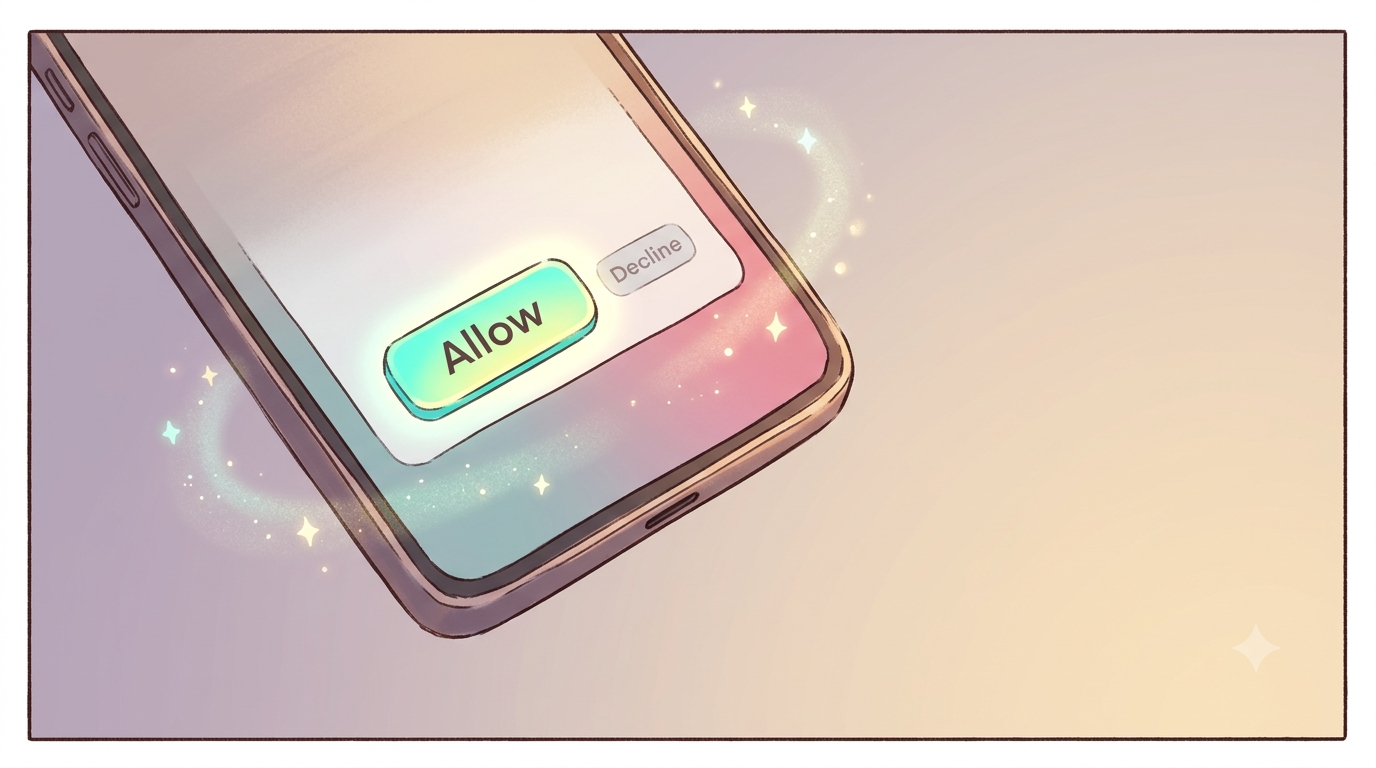
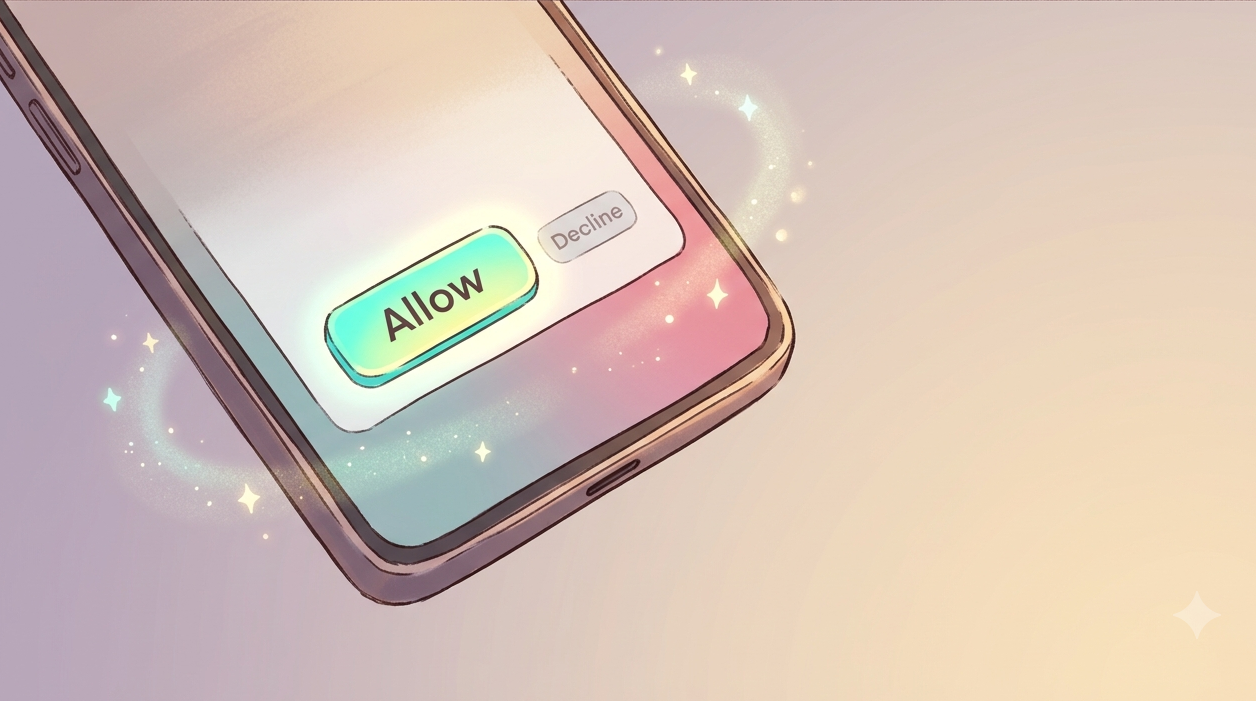
task 4 1.2

diff --git a/avatars.js b/avatars.js
@@ -264,15 +264,33 @@
      serverseitig in game_state[game16].variant gecacht. Für Landing/
      profil.html: wenn nicht vorhanden → null (keine Variant-Avatare
      freigeschaltet, aber auch keine Regression, weil vor Task 4 gar
-     keine Stage-≥5-Katze existiert). */
-  function getKatzeVariant() {
+     keine Stage-≥5-Katze existiert).
+
+     WICHTIG: lernwelt_v3 ist base64+Prüfsummen-Format (siehe
+     saveStorage in creatures.js). Deshalb dasselbe Read-Pattern wie
+     loadShopRaw benutzen, nicht plain JSON.parse. */
+  function loadGameStateRaw() {
     try {
       const raw = localStorage.getItem(GAME_STATE_KEY);
-      if (!raw) return null;
-      const data = JSON.parse(raw);
-      const v = data && data.game16 && data.game16.variant;
-      return (v === 'rainbow' || v === 'light' || v === 'dark') ? v : null;
-    } catch { return null; }
+      if (!raw) return {};
+      let parsed;
+      try {
+        parsed = JSON.parse(atob(raw));
+      } catch {
+        parsed = JSON.parse(raw);
+        return parsed || {};
+      }
+      if (parsed && typeof parsed === 'object' && 'h' in parsed && 'd' in parsed) {
+        if (parsed.h !== hashString(JSON.stringify(parsed.d))) return {};
+        return parsed.d;
+      }
+      return parsed || {};
+    } catch { return {}; }
+  }
+  function getKatzeVariant() {
+    const data = loadGameStateRaw();
+    const v = data && data.game16 && data.game16.variant;
+    return (v === 'rainbow' || v === 'light' || v === 'dark') ? v : null;
   }
 
   /* ─── Unlock-Ableitung ───────────────────────────────────────

diff --git a/GameHub/script.js b/GameHub/script.js
@@ -3922,8 +3922,8 @@ const KATZE_PATH_QUESTIONS = [
       { text: 'Ich weiß, das wurde 30-mal aufgenommen, und dass nicht jeder Morgen so bei ihr ist.',             scale: 'moon' },
       { text: 'Ich klau mir eine Idee für meinen Morgen.',                                                       scale: 'rainbow' }
     ]},
-  { headline: 'Du stehst mit einem Freund im Park. Plötzlich hebt er das Handy — Selfie für die Story. Du hast nicht gefragt bekommen.',
-    question: 'Er will dich in seine Story stellen. Ohne zu fragen.',
+  { headline: 'Du stehst mit einer Freundin im Park. Plötzlich hebt sie das Handy — Selfie für die Story. Du wurdest nicht gefragt.',
+    question: 'Sie will dich in ihre Story stellen. Ohne zu fragen.',
     answers: [
       { text: 'Klar, mach ruhig.',              scale: 'sun' },
       { text: 'Nein, nicht öffentlich.',        scale: 'moon' },
@@ -4087,7 +4087,7 @@ function ensurePathStyles() {
     }
     .legi-path-cat {
       position: absolute; bottom: 6px; right: 8px;
-      height: 42%; width: auto; filter: drop-shadow(0 4px 10px rgba(0,0,0,0.4));
+      height: 84%; width: auto; filter: drop-shadow(0 4px 10px rgba(0,0,0,0.4));
       pointer-events: none;
     }
     .legi-path-bubble {